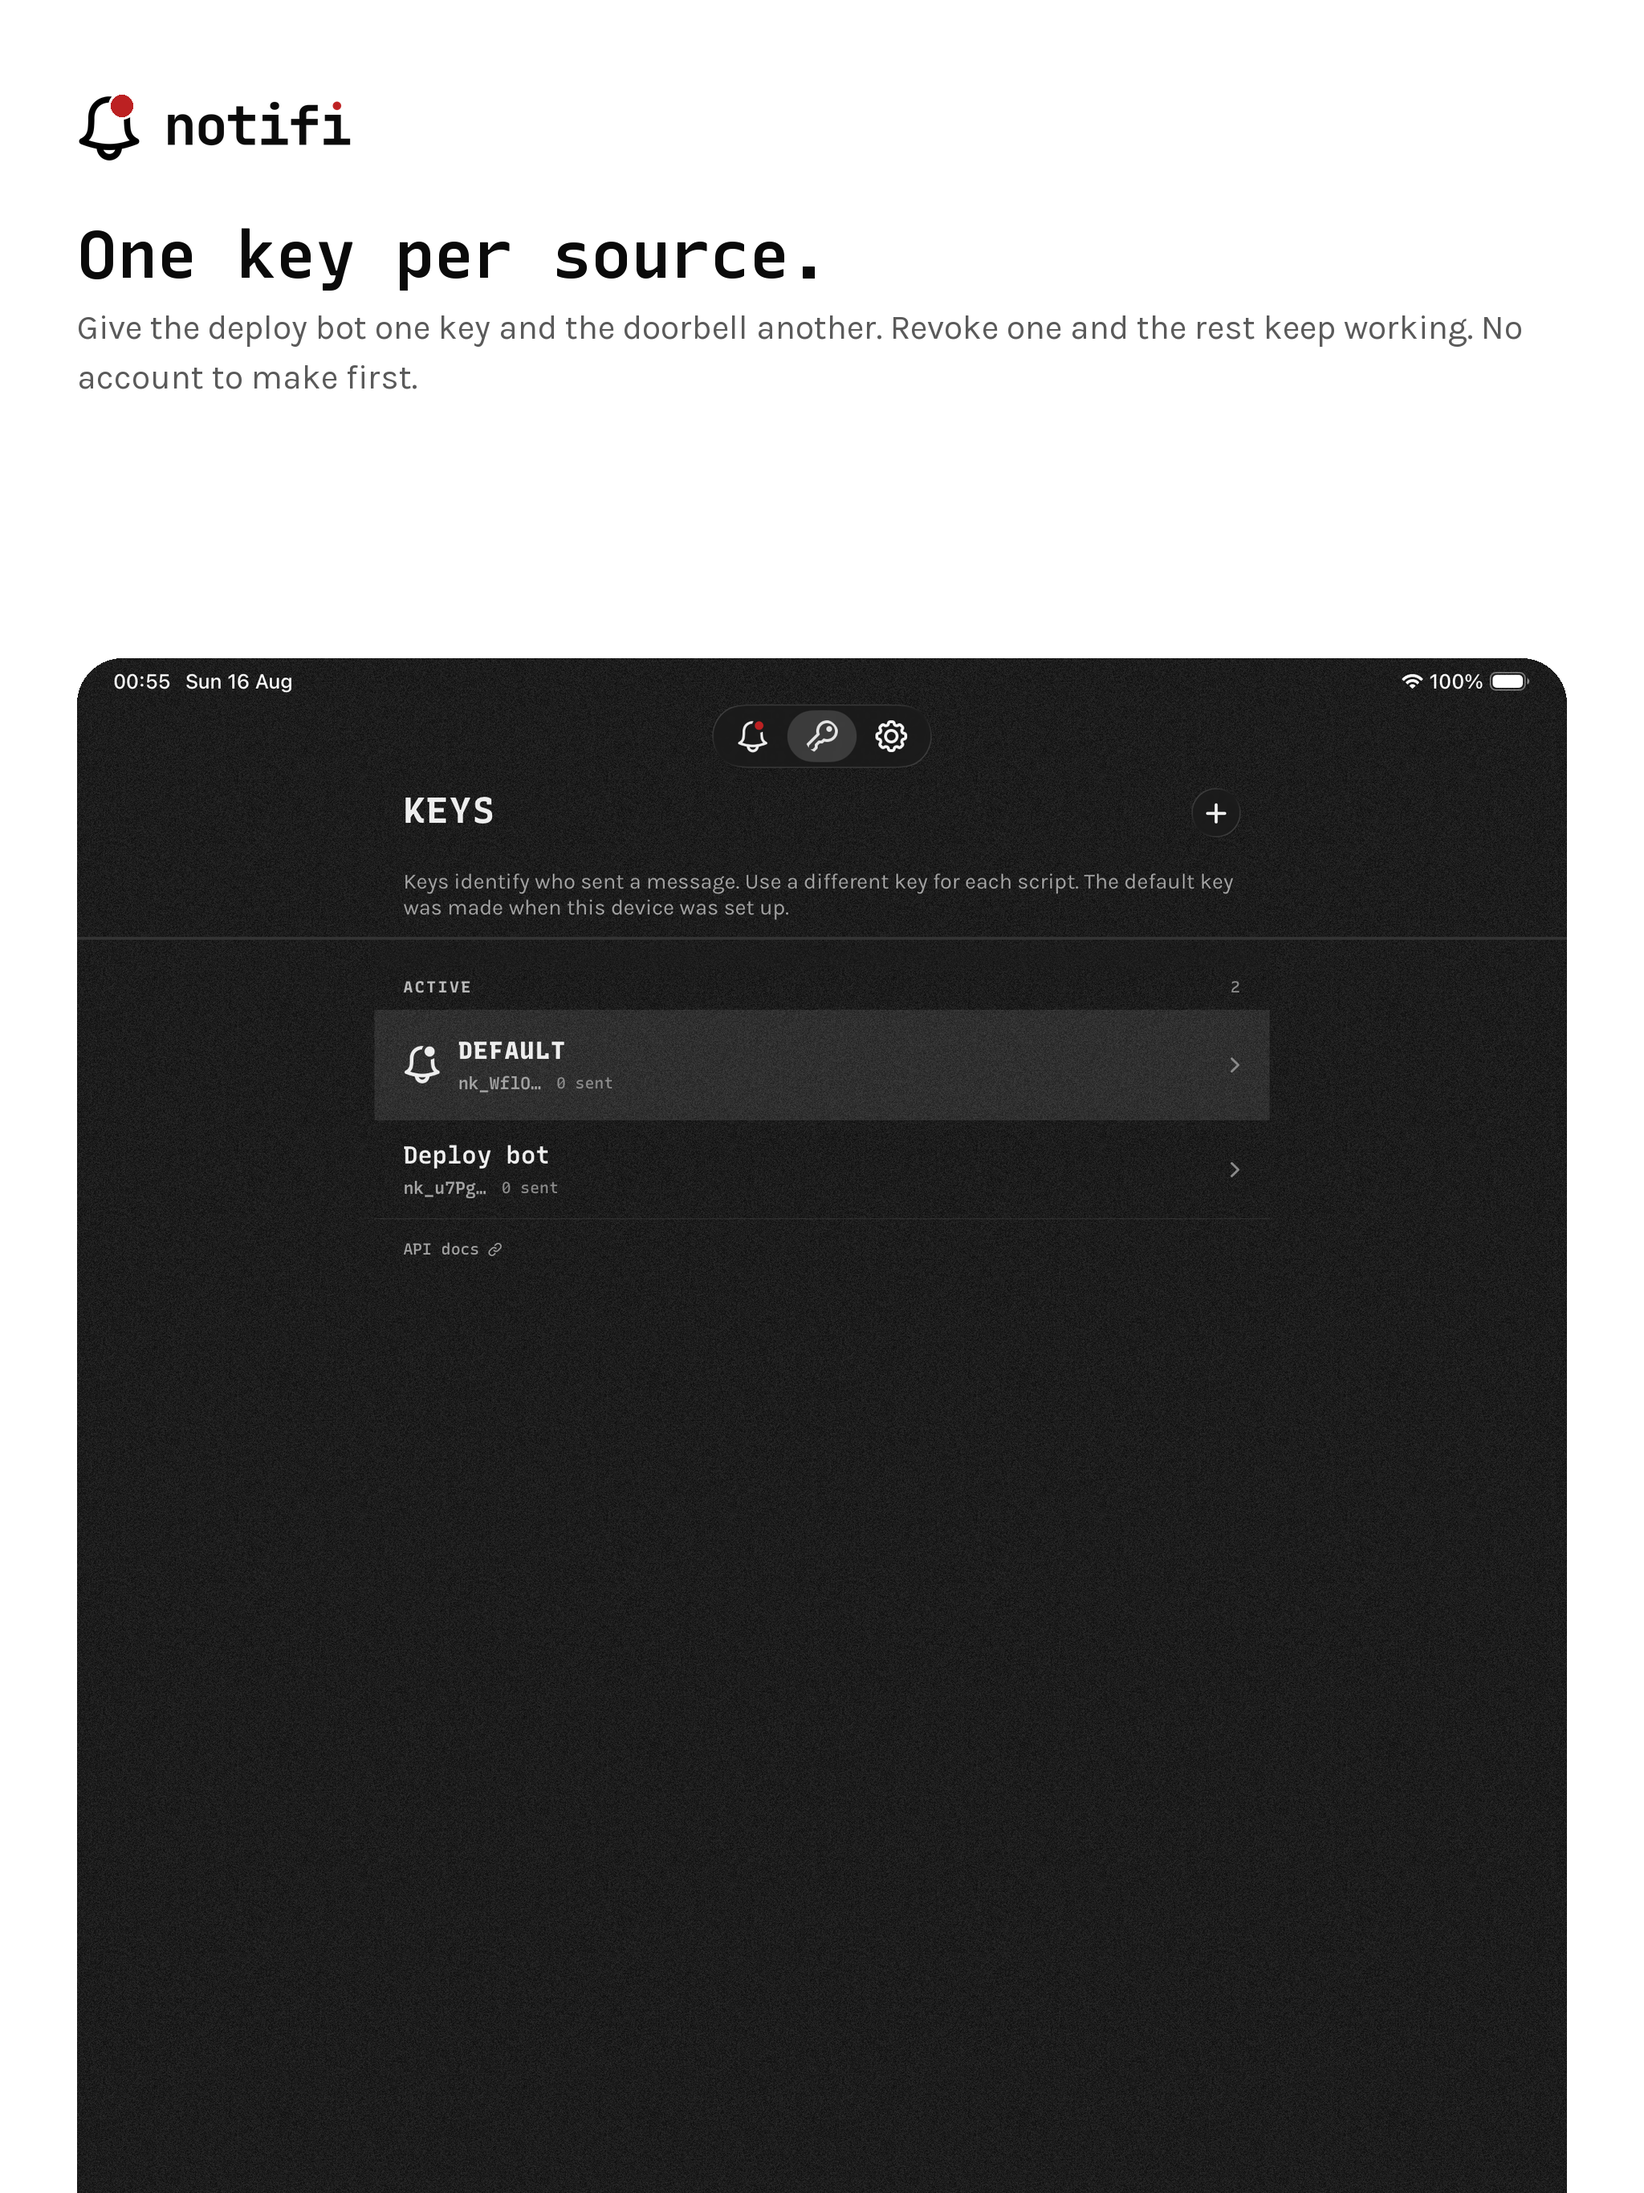
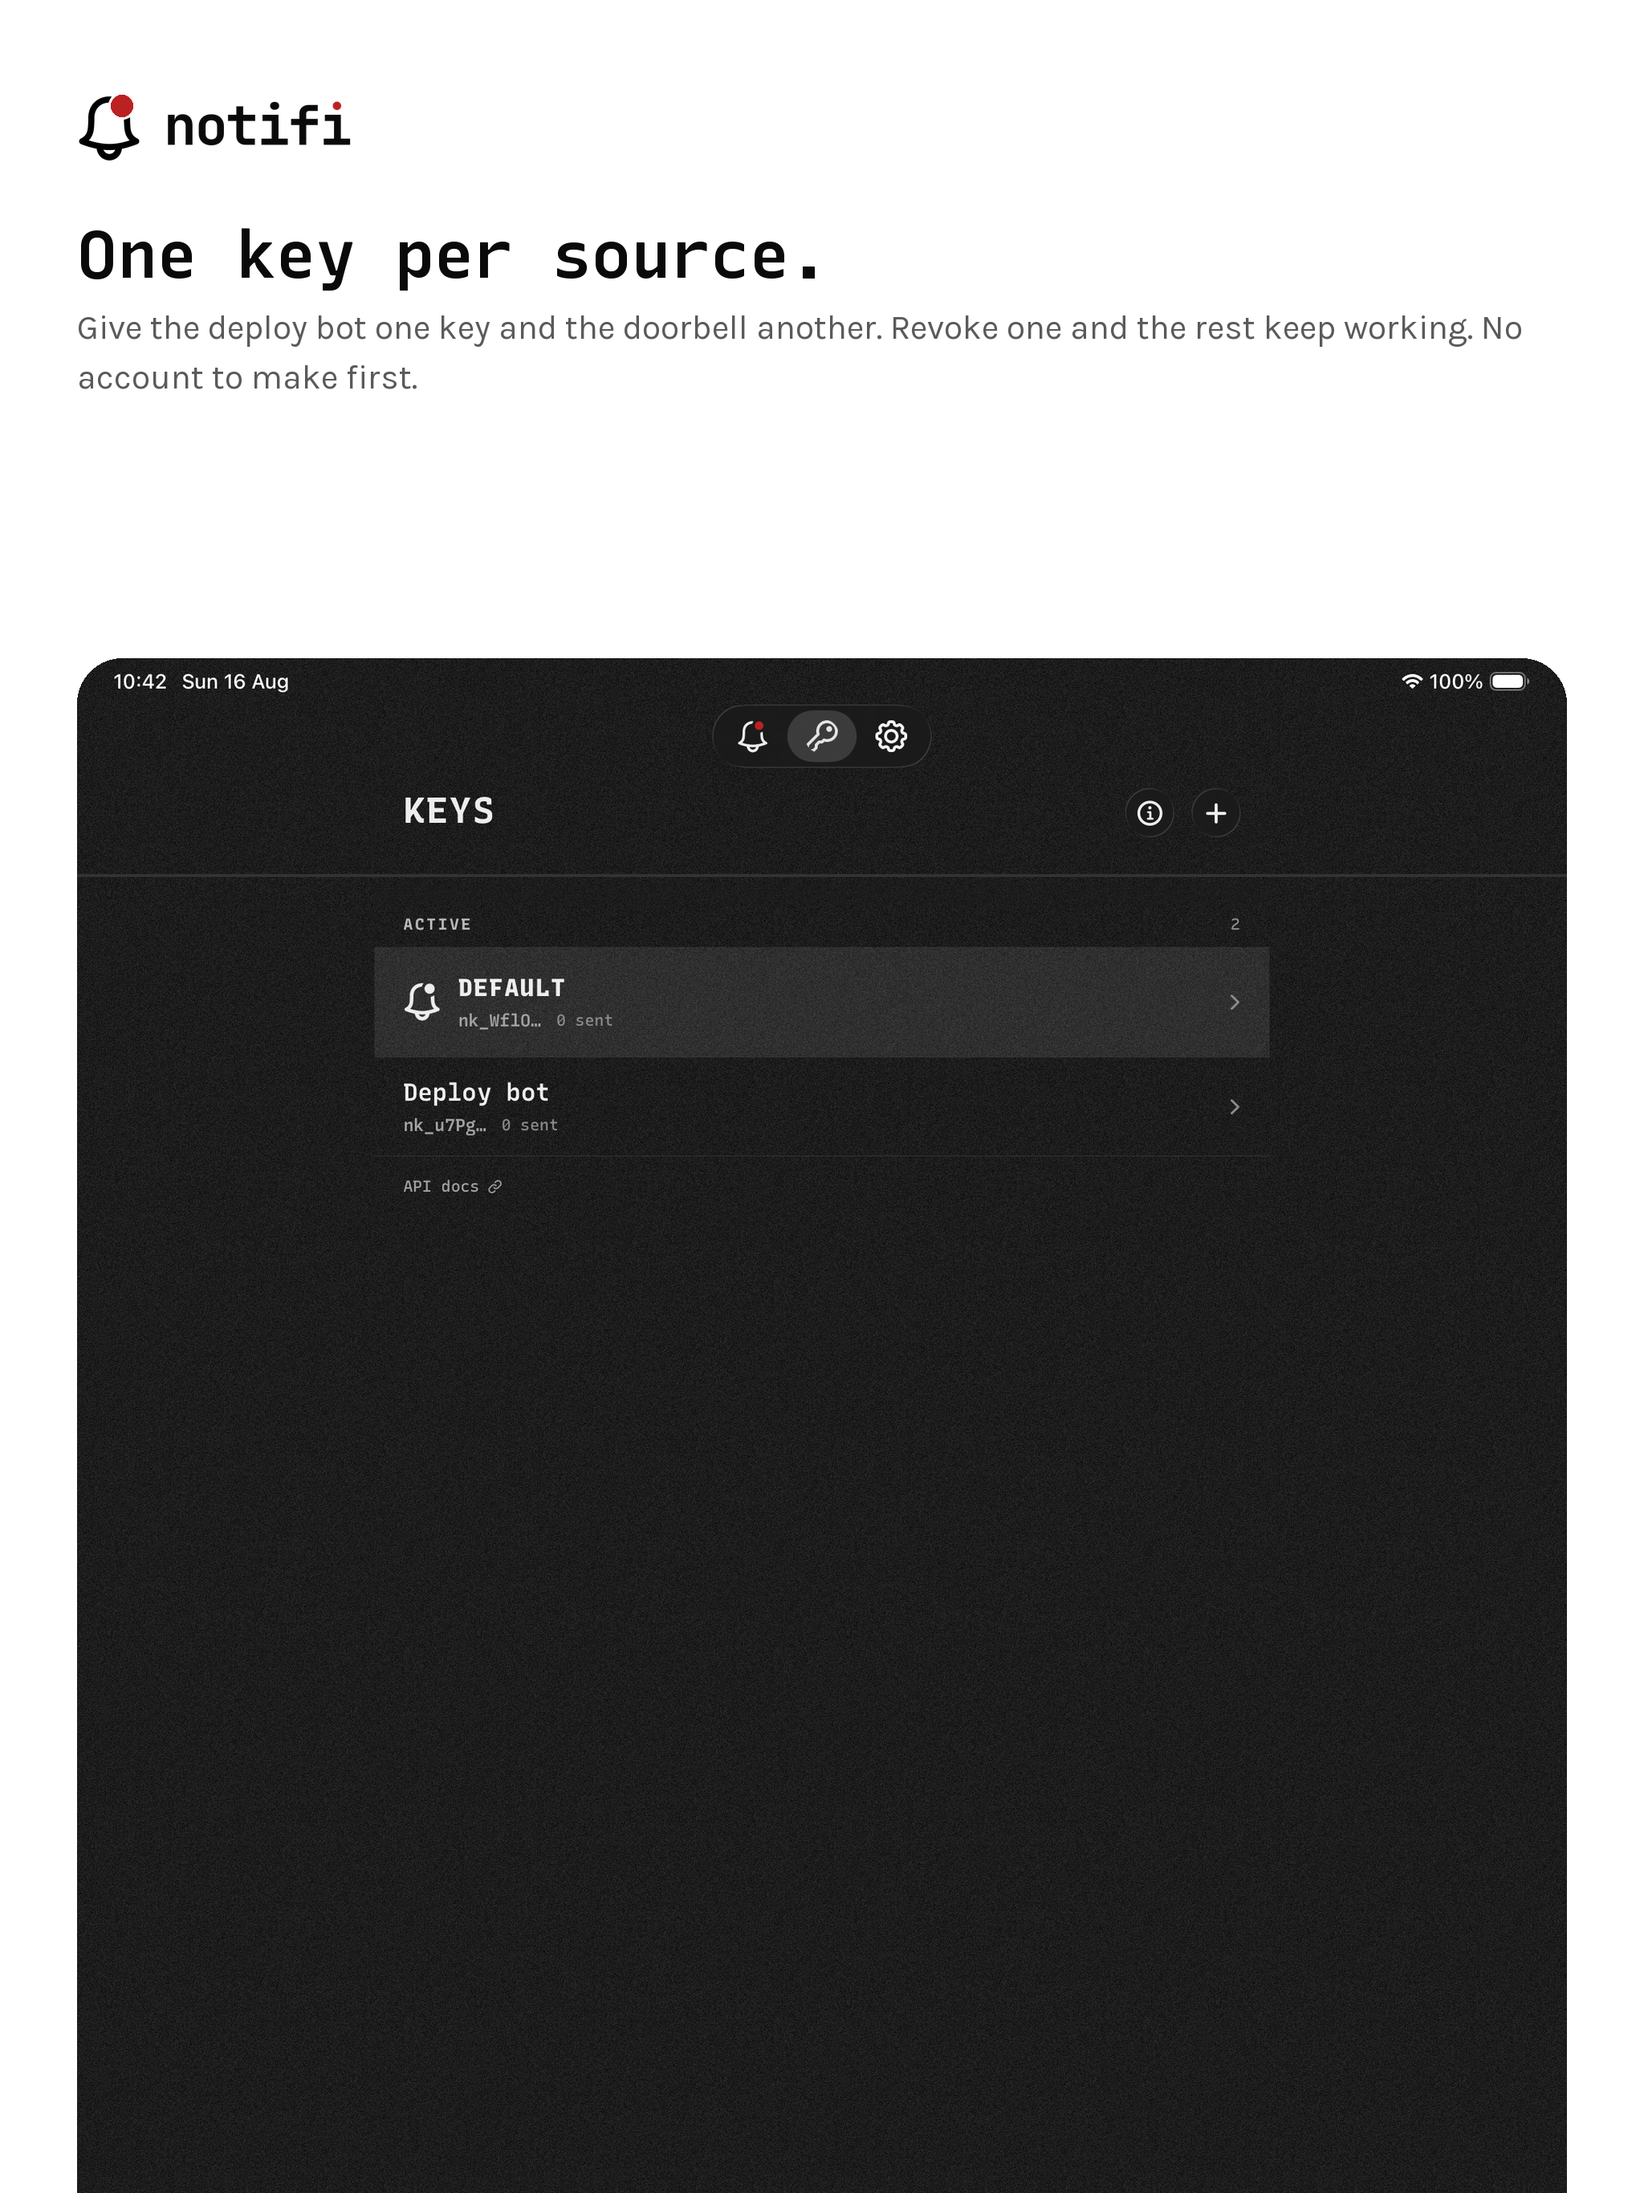
Frame the hero shot, move the keys intro behind an info button (#174)
The website's app section drops the four equal tiles for one framed inbox
shot — silver bezel, since a dark screen in a dark bezel on a dark page
disappears into its own frame — with the other three screens as thumbnails
beside it.

The Keys screen's intro paragraph moves behind an info disc next to the +,
shown as a centred alert: the sentence is orientation for the reader who has
not made a key yet, and everyone else was rereading it on every visit.

The detail head's absolute timestamp lifts from dim to muted so it matches
the relative age beside it.

Screenshots (site webps and both App Store sets) reshot.

Changed region(s): [[0.2188, 0.4045, 0.7812, 0.56], [0.6875, 0.3734, 0.7188, 0.4045]]

diff --git a/apps/api/public/index.html b/apps/api/public/index.html
@@ -390,21 +390,40 @@ header .bell::after{transform-origin:50% 0;animation:ring-clapper 2.42s ease-in-
 @media(max-width:560px){.uses{grid-template-columns:1fr}}
 
 /* ── screenshots ────────────────────────────────────────────── */
-.shots{
-  display:grid;grid-template-columns:repeat(4,1fr);gap:clamp(12px,2.2vw,24px);
-  margin-top:30px;
+/* One framed hero shot with the other screens as thumbnails beside it,
+   rather than four equal tiles. The bezel is silver because the screenshot
+   and the page are both near-black: a dark screen inside a dark bezel on a
+   dark page disappears into its own frame, and the light metal is what
+   separates the phone from the ground. No shadow under the phone — the site
+   has no other elevation, and hairlines are how every panel here ends. */
+.app-split{
+  display:grid;grid-template-columns:minmax(0,1.05fr) minmax(0,1fr);
+  gap:clamp(24px,4.5vw,56px);align-items:center;margin-top:30px;
 }
-.shot figure{margin:0}
-.shot img{
-  width:100%;height:auto;display:block;border-radius:12px;
+.app-phone{margin:0}
+.app-phone .phone{
+  max-width:340px;margin:0 auto;
+  border:1px solid #9A9A98;
+  background:linear-gradient(160deg,#E8E8E6,#C9C9C7);
+  border-radius:clamp(28px,4.5vw,44px);
+  padding:clamp(8px,1.3vw,12px);
+}
+.app-phone img{width:100%;height:auto;display:block;border-radius:clamp(20px,3.4vw,34px)}
+.app-phone figcaption{
+  font-family:var(--mono);font-size:12px;color:var(--dim);
+  margin-top:10px;text-align:center;
+}
+.app-thumbs{display:grid;grid-template-columns:repeat(3,minmax(0,1fr));gap:clamp(10px,1.6vw,18px)}
+.app-thumbs figure{margin:0}
+.app-thumbs img{
+  width:100%;height:auto;display:block;border-radius:10px;
   border:1px solid var(--line);background:var(--surface);
 }
-.shot figcaption{
-  font-family:var(--mono);font-size:12px;color:var(--dim);
-  margin-top:10px;
+.app-thumbs figcaption{
+  font-family:var(--mono);font-size:12px;color:var(--dim);margin-top:10px;
 }
-@media(max-width:860px){
-  .shots{grid-template-columns:repeat(2,1fr)}
+@media(max-width:760px){
+  .app-split{grid-template-columns:minmax(0,1fr)}
 }
 
 /* ── the Mac, hanging from its menu bar ─────────────────────── */
@@ -680,33 +699,34 @@ footer{border-top:1px solid var(--line);padding:40px 0 56px}
       <p class="eyebrow">The app</p><hr class="rule">
     </div>
     <h2>Every notification you've received,<br>in one searchable list.</h2>
-    <p class="lede" style="margin-top:14px">
-      Tap one to see the full message, image, and link. Messages are deleted
-      from the server once your device has collected them, so your history
-      lives only on your device.
-    </p>
 
-    <div class="shots">
-      <div class="shot"><figure>
-        <img src="/screens/notifications.webp" width="620" height="1348" loading="lazy"
-             alt="The notifi inbox: a black list of alerts grouped under Today and Yesterday, unread ones showing their age in red.">
+    <div class="app-split">
+      <figure class="app-phone">
+        <div class="phone">
+          <img src="/screens/notifications.webp" width="620" height="1348" loading="lazy"
+               alt="The notifi inbox: a black list of alerts grouped under Today and Yesterday, unread ones showing their age in red.">
+        </div>
         <figcaption>Inbox</figcaption>
-      </figure></div>
-      <div class="shot"><figure>
-        <img src="/screens/detail.webp" width="620" height="1348" loading="lazy"
-             alt="A latency alert opened in full, showing the graph that came with it and the link back to the dashboard.">
-        <figcaption>Message</figcaption>
-      </figure></div>
-      <div class="shot"><figure>
-        <img src="/screens/keys.webp" width="620" height="1348" loading="lazy"
-             alt="The keys screen: the built-in default key leading the list, then one key per source (Doorbell, Deploy bot), each with its send count.">
-        <figcaption>Keys</figcaption>
-      </figure></div>
-      <div class="shot"><figure>
-        <img src="/screens/settings.webp" width="620" height="1348" loading="lazy"
-             alt="Settings: notification permission, a dark or light ground, automatic image loading, and a test send.">
-        <figcaption>Settings</figcaption>
-      </figure></div>
+      </figure>
+      <div class="app-side">
+        <div class="app-thumbs">
+          <figure>
+            <img src="/screens/detail.webp" width="620" height="1348" loading="lazy"
+                 alt="A latency alert opened in full, showing the graph that came with it and the link back to the dashboard.">
+            <figcaption>Message</figcaption>
+          </figure>
+          <figure>
+            <img src="/screens/keys.webp" width="620" height="1348" loading="lazy"
+                 alt="The keys screen: the built-in default key leading the list, then one key per source (Doorbell, Deploy bot), each with its send count.">
+            <figcaption>Keys</figcaption>
+          </figure>
+          <figure>
+            <img src="/screens/settings.webp" width="620" height="1348" loading="lazy"
+                 alt="Settings: notification permission, a dark or light ground, automatic image loading, and a test send.">
+            <figcaption>Settings</figcaption>
+          </figure>
+        </div>
+      </div>
     </div>
   </div>
 </section>

diff --git a/apps/app/Shared/Views/KeysView.swift b/apps/app/Shared/Views/KeysView.swift
@@ -5,6 +5,7 @@ struct KeysView: View {
     #if os(iOS)
     @State private var showingCreate = false
     #endif
+    @State private var showingInfo = false
     @State private var hasLoaded = false
 
     private var keys: [CachedKey] { model.sync?.keys ?? [] }
@@ -27,21 +28,25 @@ struct KeysView: View {
 
     var body: some View {
         GeistPage(scroll: .page) {
-            VStack(alignment: .leading, spacing: 0) {
-                GeistHeader(title: Copy.Keys.title) {
-                    IconButton(systemImage: "plus", label: Copy.Keys.newKey, glass: true) {
-                        #if os(iOS)
-                        showingCreate = true
-                        #else
-                        model.presentingCreateKey = true
-                        #endif
-                    }
+            GeistHeader(title: Copy.Keys.title) {
+                // What a key is, behind a disc rather than printed under the
+                // title: the sentence is orientation for the reader who has
+                // not made a key yet, and everyone else was rereading it on
+                // every visit. A centred alert, not confirmationDialog —
+                // see CLAUDE.md.
+                IconButton(systemImage: "info.circle", label: Copy.Keys.aboutKeys, glass: true) {
+                    showingInfo = true
                 }
-                Text(Copy.Keys.intro)
-                    .font(Theme.body)
-                    .foregroundStyle(Theme.muted)
-                    .fixedSize(horizontal: false, vertical: true)
-                    .padding(.top, 8)
+                // One control on both platforms. The Mac used to carry a text
+                // pill here while iOS had the disc, which drifted the two
+                // headers apart for no reason either screen owns.
+                IconButton(systemImage: "plus", label: Copy.Keys.newKey, glass: true) {
+                    #if os(iOS)
+                    showingCreate = true
+                    #else
+                    model.presentingCreateKey = true
+                    #endif
+                }
             }
         } content: {
             VStack(alignment: .leading, spacing: 0) {
@@ -108,6 +113,10 @@ struct KeysView: View {
         }
         .navigationDestination(for: CachedKey.self) { key in
             KeyDetailView(keyID: key.id)
+        }
+        .alert(Copy.Keys.aboutKeys, isPresented: $showingInfo) {
+        } message: {
+            Text(Copy.Keys.intro)
         }
         .refreshable { await model.sync?.refreshKeys() }
         .task {

diff --git a/apps/app/Shared/Support/Copy.swift b/apps/app/Shared/Support/Copy.swift
@@ -108,6 +108,7 @@ enum Copy {
         static var sectionActive: String { NSLocalizedString("keys.sectionActive", comment: "") }
         static var sectionRevoked: String { NSLocalizedString("keys.sectionRevoked", comment: "") }
         static var intro: String { NSLocalizedString("keys.intro", comment: "") }
+        static var aboutKeys: String { NSLocalizedString("keys.aboutKeys", comment: "") }
         static var footnote: String { NSLocalizedString("keys.footnote", comment: "") }
         static func sent(_ n: Int) -> String { String.localizedStringWithFormat(NSLocalizedString("keys.sent", comment: ""), n) }
         static func rowLastUsed(_ ago: String) -> String { String.localizedStringWithFormat(NSLocalizedString("keys.rowLastUsed", comment: ""), ago) }

diff --git a/packages/copy/src/strings.ts b/packages/copy/src/strings.ts
@@ -162,6 +162,7 @@ export const copy = {
     intro:
       'Keys identify who sent a message. Use a different key for each script. ' +
       'The default key was made when this device was set up.',
+    aboutKeys: 'About keys',
     footnote:
       'A key is shown once, when it is created; notifi stores only the prefix. ' +
       'The default key can be copied again or regenerated from its detail page.',

diff --git a/apps/app/Shared/Views/MessageDetailView.swift b/apps/app/Shared/Views/MessageDetailView.swift
@@ -241,7 +241,7 @@ struct MessageDetailView: View {
             Text("·").foregroundStyle(Theme.chip)
             Text(stamp)
                 .font(.karla(size: 13))
-                .foregroundStyle(Theme.dim)
+                .foregroundStyle(Theme.muted)
         }
         .lineLimit(1)
         .monospacedDigit()
